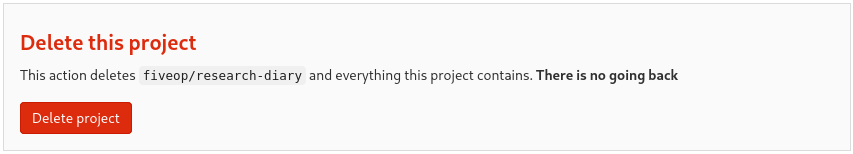
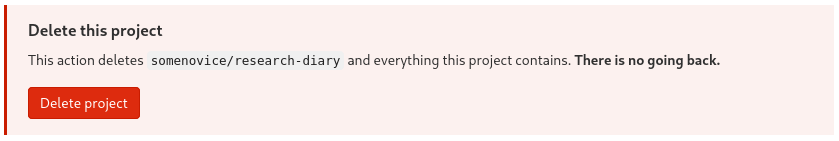
Adapt section to example user

Changed region(s): [[0.0, 0.0, 1.0, 0.9929]]

diff --git a/episodes/02-creating-projects-connecting-repositories.md b/episodes/02-creating-projects-connecting-repositories.md
@@ -48,10 +48,11 @@ As we fill in the project name, a project slug gets suggested in the respective
 field. The project slug is the last part of the project’s, and the associated
 Git repository’s, URL or web address.
 
-The URL’s middle part can be chosen in the drop-down field labeled “Project
-URL”, which defaults to the current user’s username. This is the location for a
-user’s project (and groups). Other options in the drop-down list are the groups
-in which the current user may create projects.
+If the user belongs to at least one group, the URL’s middle part can be chosen
+in the drop-down field labeled “Project URL”, which defaults to the current
+user’s username. This is the location for a user’s project (and groups). Other
+options in the drop-down list are the groups in which the current user may
+create projects.
 
 ::: callout
 
@@ -118,8 +119,8 @@ homepage; if it is in Markdown format, in its rendered form.
 
 :::
 
-We will ignore the checkbox labeled “Enable Static Application security Testing
-(SAST)” in this lesson, except for unchecking it.
+We will ignore any other fields that may be visible depending on the GitLab
+instances configuration.
 
 After clicking the “Create project” button, GitLab creates the project and
 redirects us to the project’s homepage, which looks similar to this:
@@ -195,8 +196,8 @@ If both return sensible values, we are good to go. Otherwise we provide the
 missing values, for example:
 
 ```
-$ git config --global user.name "Riley Doe"
-$ git config --global user.email "r.doe@example.com"
+$ git config --global user.name "Some Novice"
+$ git config --global user.email "some.novice@example.com"
 ```
 {: .language-bash}
 
@@ -235,7 +236,7 @@ $ echo "# Research Diary" > README.md
 $ echo "" >> README.md
 $ echo "This repository contains our research diary." >> README.md
 $ echo "Each day gets his own file." >> README.md
-$ echo "We use the Markdown format for your files." >> README.md
+$ echo "We use the Markdown format for our files." >> README.md
 $ git add README.md
 $ git commit -m "Add README.md"
 ```
@@ -281,14 +282,14 @@ time at the instructions toward the bottom of the page. They read:
 > **Git global setup**
 >
 > ```
-> git config --global user.name "Philipp Matthias Schäfer"
-> git config --global user.email "philipp.matthias.schaefer@posteo.de"
+> git config --global user.name "Some Novice"
+> git config --global user.email "some.novice@example.com"
 > ```
 >
 > **Create a new repository**
 >
 > ```
-> git clone git@gitlab.com:fiveop/test.git
+> git clone https://gitlab.com/somenovice/research-diary.git
 > cd test
 > git switch -c main
 > touch README.md
@@ -302,7 +303,7 @@ time at the instructions toward the bottom of the page. They read:
 > ```
 > cd existing_folder
 > git init --initial-branch=main
-> git remote add origin git@gitlab.com:fiveop/test.git
+> git remote add origin https://gitlab.com/somenovice/research-diary.git
 > git add .
 > git commit -m "Initial commit"
 > git push -u origin main
@@ -313,7 +314,7 @@ time at the instructions toward the bottom of the page. They read:
 > ```
 > cd existing_repo
 > git remote rename origin old-origin
-> git remote add origin git@gitlab.com:fiveop/test.git
+> git remote add origin https://gitlab.com/somenovice/research-diary.git
 > git push -u origin --all
 > git push -u origin --tags
 > ```
@@ -326,25 +327,26 @@ although we have a directory with contents, its already a Git repository. That
 leaves us with the third option, which is the one applicable to our situation:
 “Push an existing Git repository.”
 
-Transferring our changes to a remote repository is called **push**ing, because we
-are sending the changes from us, the local repository, to somewhere else, a
+Transferring our changes to a remote repository is called **push**ing, because
+we are sending the changes from us, the local repository, to somewhere else, a
 remote repository. Later on we will “**pull**” changes from a remote repository,
 completing the analogy.
 
-Going back to the shell and following the instruction, we first make sure to be
-in the right directory:
+Going back to the shell, we configure our project’s repository as a remote in
+our local repository:
 
 ```
-$ cd ~/Desktop/research-diary/
+$ git remote add origin https://gitlab.com/somenovice/research-diary.git
 ```
 {: .language-bash}
 
-Then we add a link to our remote repository
+::: callout
 
-```
-$ git remote add origin git@gitlab.com:fiveop/test.git
-```
-{: .language-bash}
+### https:// vs git@
+
+TODO
+
+:::
 
 We instruct Git to add a remote called `origin` with the last part as the
 address. Make sure to copy that last part from the project overview page,
@@ -374,7 +376,8 @@ university GitLab instance.
 
 :::
 
-Finally, we push our changes to the remote repository
+Finally, we push our changes to the remote repository. The command will prompt
+for our user name and password:
 
 ```
 $ git push -u origin --all
@@ -385,7 +388,7 @@ Enumerating objects: 3, done.
 Counting objects: 100% (3/3), done.
 Writing objects: 100% (3/3), 250 bytes | 250.00 KiB/s, done.
 Total 3 (delta 0), reused 0 (delta 0), pack-reused 0
-To gitlab.com:fiveop/test.git
+To https://gitlab.com/somenovice/research-diary.git
  * [new branch]      main -> main
 branch 'main' set up to track 'origin/main'.
 ```
@@ -401,7 +404,7 @@ of a project. On the left, a menu leading to other project pages. On the right,
 taking up most of the width, the project homepage. Starting from the top, we
 first have the project title, Research Diary, followed by a line of statistical
 values (1 Commit, 1 Branch, 0 Tags, 72KB files, 72 KB Storage). Under these we
-see the description: “My research diary, a collection of Markdown files.”. In
+see the description: “My research diary, a collection of Markdown files”. In
 the next line we see a drop-down field for branches showing “main”, the project
 slug¸“test”, a drop-down button labeled “+”, and buttons labeled “History”,
 “Find file”, “Web IDE”, a download symbol, and ”Clone”. This is followed by a
@@ -412,8 +415,6 @@ button. This is followed by some buttons that allow to add or upload new files
 or setup some of GitLab features for the project. Next is a list of files, in
 this case only `README.md`, with information when it was last updated and
 through which commit. Finally, we see a rendering of `README.md`."}
-
-TODO: REDO THE IMAGE WITH FULL README CONTENT!
 
 Let us look at what has changed compared to its initial state. The interface
 elements encouraging us to add members to the project are gone. Of course, we
@@ -459,7 +460,7 @@ At the bottom we find a section labeled “Delete Project”.
 
 ![Delete project dialog](fig/delete-project.png){alt="A box with red headline
 “Delete this project”, followed by the warning “This action deletes
-`fiveop/reseach-diary` and everything this project contains. **There is no going
+`somenovice/reseach-diary` and everything this project contains. **There is no going
 back**”, and a red button labeled “Delete project”."}
 
 Clicking the button will not directly delete the project, as the warning says,
